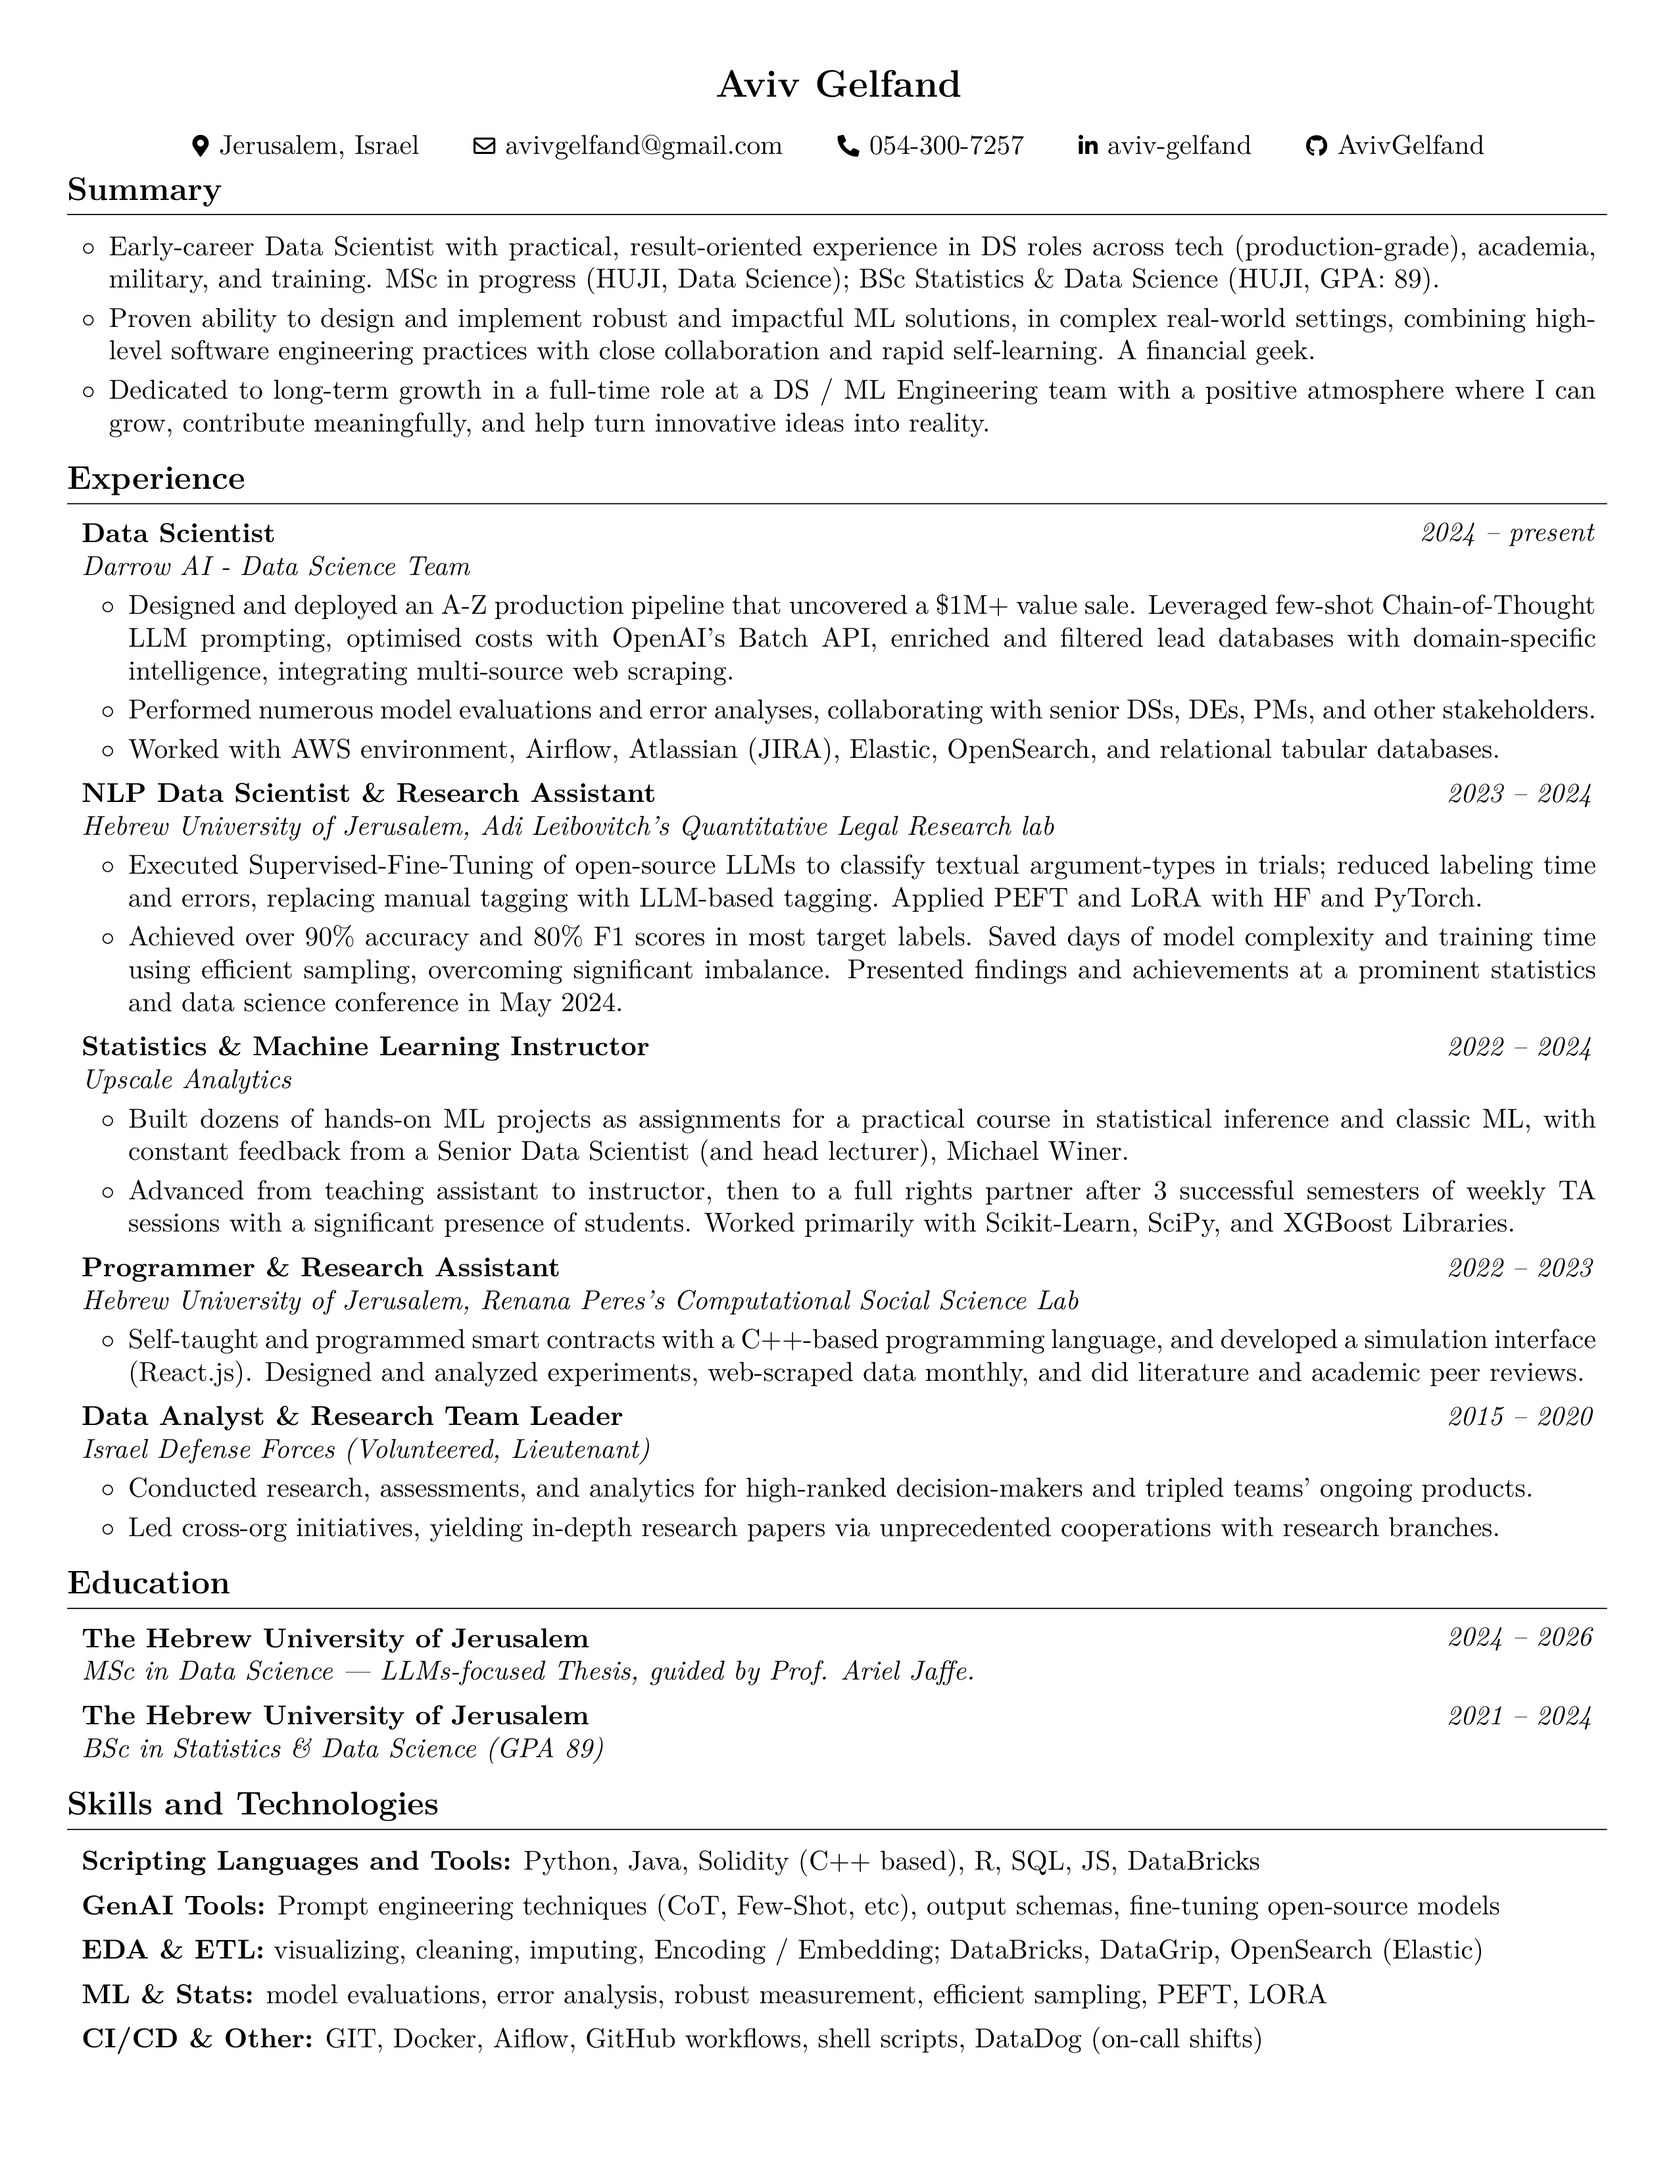
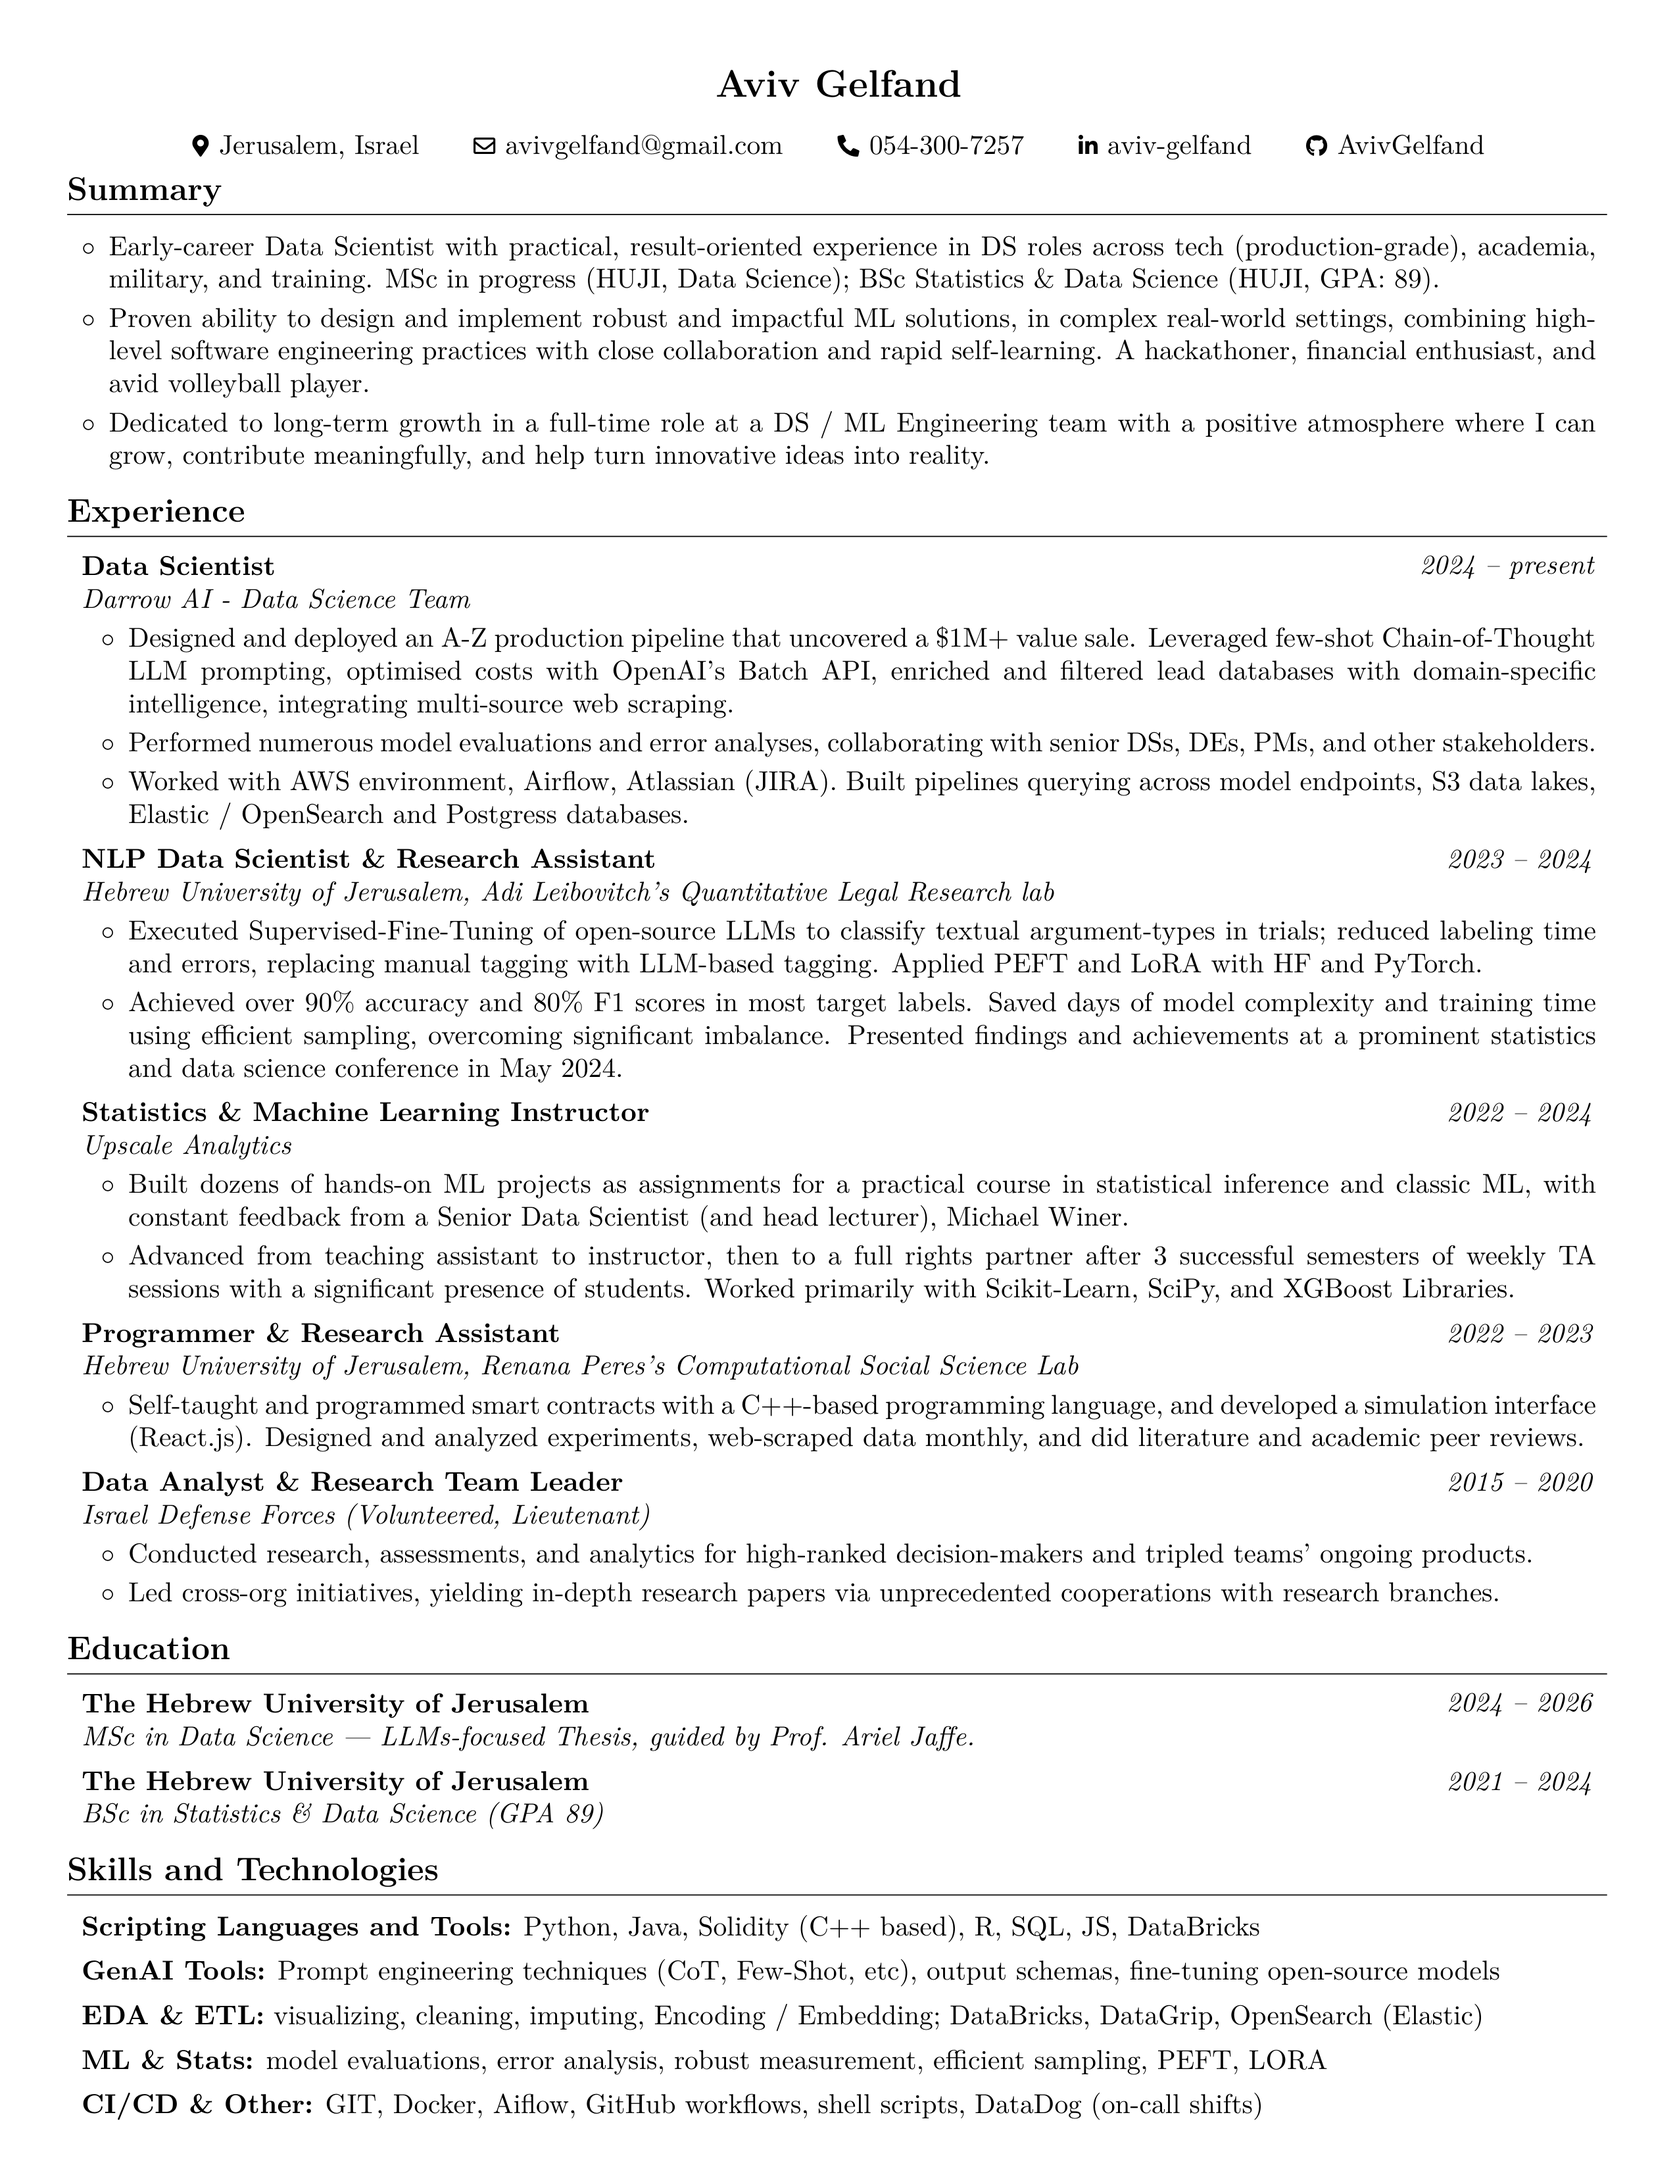
Render the latest CV

Changed region(s): [[0.031, 0.1561, 0.9604, 0.9676], [0.9294, 0.7803, 0.9604, 0.8115]]

diff --git a/Aviv_Gelfand_CV.html b/Aviv_Gelfand_CV.html
@@ -43,7 +43,7 @@
         <h1>Summary</h1>
         <ul>
         <li>Early-career Data Scientist with practical, result-oriented experience in DS roles across tech (production-grade), academia, military, and training. MSc in progress (HUJI, Data Science); BSc Statistics &amp; Data Science (HUJI, GPA: 89).</li>
-        <li>Proven ability to design and implement robust and impactful ML solutions, in complex real-world settings, combining high-level software engineering practices with close collaboration and rapid self-learning. A financial geek.</li>
+        <li>Proven ability to design and implement robust and impactful ML solutions, in complex real-world settings, combining high-level software engineering practices with close collaboration and rapid self-learning. A hackathoner, financial enthusiast, and avid volleyball player.</li>
         <li>Dedicated to long-term growth in a full-time role at a DS / ML Engineering team with a positive atmosphere where I can grow, contribute meaningfully, and help turn innovative ideas into reality.</li>
         </ul>
         <h1>Experience</h1>
@@ -52,7 +52,7 @@
         <li>2024 – present</li>
         <li>Designed and deployed an A-Z production pipeline that uncovered a \$1M+ value sale. Leveraged few-shot Chain-of-Thought LLM prompting, optimised costs with OpenAI’s Batch API, enriched and filtered lead databases with domain-specific intelligence, integrating multi-source web scraping.</li>
         <li>Performed numerous model evaluations and error analyses, collaborating with senior DSs, DEs, PMs, and other stakeholders.</li>
-        <li>Worked with AWS environment, Airflow, Atlassian (JIRA), Elastic, OpenSearch, and relational tabular databases.</li>
+        <li>Worked with AWS environment, Airflow, Atlassian (JIRA). Built pipelines querying across model endpoints, S3 data lakes, Elastic / OpenSearch and Postgress databases.</li>
         </ul>
         <h2>Hebrew University of Jerusalem, Adi Leibovitch's Quantitative Legal Research lab, NLP Data Scientist &amp; Research Assistant</h2>
         <ul>

diff --git a/Aviv_Gelfand_CV.tex b/Aviv_Gelfand_CV.tex
@@ -183,7 +183,7 @@
 
         \item Early-career Data Scientist with practical, result-oriented experience in DS roles across tech (production-grade), academia, military, and training. MSc in progress (HUJI, Data Science); BSc Statistics \& Data Science (HUJI, GPA: 89).
 
-        \item Proven ability to design and implement robust and impactful ML solutions, in complex real-world settings, combining high-level software engineering practices with close collaboration and rapid self-learning. A financial geek.
+        \item Proven ability to design and implement robust and impactful ML solutions, in complex real-world settings, combining high-level software engineering practices with close collaboration and rapid self-learning. A hackathoner, financial enthusiast, and avid volleyball player.
 
         \item Dedicated to long-term growth in a full-time role at a DS / ML Engineering team with a positive atmosphere where I can grow, contribute meaningfully, and help turn innovative ideas into reality.
 
@@ -210,7 +210,7 @@
             \begin{highlights}
                 \item Designed and deployed an A-Z production pipeline that uncovered a \$1M+ value sale. Leveraged few-shot Chain-of-Thought LLM prompting, optimised costs with OpenAI’s Batch API, enriched and filtered lead databases with domain-specific intelligence, integrating multi-source web scraping.
                 \item Performed numerous model evaluations and error analyses, collaborating with senior DSs, DEs, PMs, and other stakeholders.
-                \item Worked with AWS environment, Airflow, Atlassian (JIRA), Elastic, OpenSearch, and relational tabular databases.
+                \item Worked with AWS environment, Airflow, Atlassian (JIRA). Built pipelines querying across model endpoints, S3 data lakes, Elastic / OpenSearch and Postgress databases.
             \end{highlights}
         \end{onecolentry}
 

diff --git a/README.md b/README.md
@@ -12,7 +12,7 @@
 # Summary
 
 - Early-career Data Scientist with practical, result-oriented experience in DS roles across tech (production-grade), academia, military, and training. MSc in progress (HUJI, Data Science); BSc Statistics & Data Science (HUJI, GPA: 89).
-- Proven ability to design and implement robust and impactful ML solutions, in complex real-world settings, combining high-level software engineering practices with close collaboration and rapid self-learning. A financial geek.
+- Proven ability to design and implement robust and impactful ML solutions, in complex real-world settings, combining high-level software engineering practices with close collaboration and rapid self-learning. A hackathoner, financial enthusiast, and avid volleyball player.
 - Dedicated to long-term growth in a full-time role at a DS / ML Engineering team with a positive atmosphere where I can grow, contribute meaningfully, and help turn innovative ideas into reality.
 # Experience
 
@@ -21,7 +21,7 @@
 - 2024 – present
 - Designed and deployed an A-Z production pipeline that uncovered a \$1M+ value sale. Leveraged few-shot Chain-of-Thought LLM prompting, optimised costs with OpenAI’s Batch API, enriched and filtered lead databases with domain-specific intelligence, integrating multi-source web scraping.
 - Performed numerous model evaluations and error analyses, collaborating with senior DSs, DEs, PMs, and other stakeholders.
-- Worked with AWS environment, Airflow, Atlassian (JIRA), Elastic, OpenSearch, and relational tabular databases.
+- Worked with AWS environment, Airflow, Atlassian (JIRA). Built pipelines querying across model endpoints, S3 data lakes, Elastic / OpenSearch and Postgress databases.
 
 ## Hebrew University of Jerusalem, Adi Leibovitch's Quantitative Legal Research lab, NLP Data Scientist & Research Assistant
 
